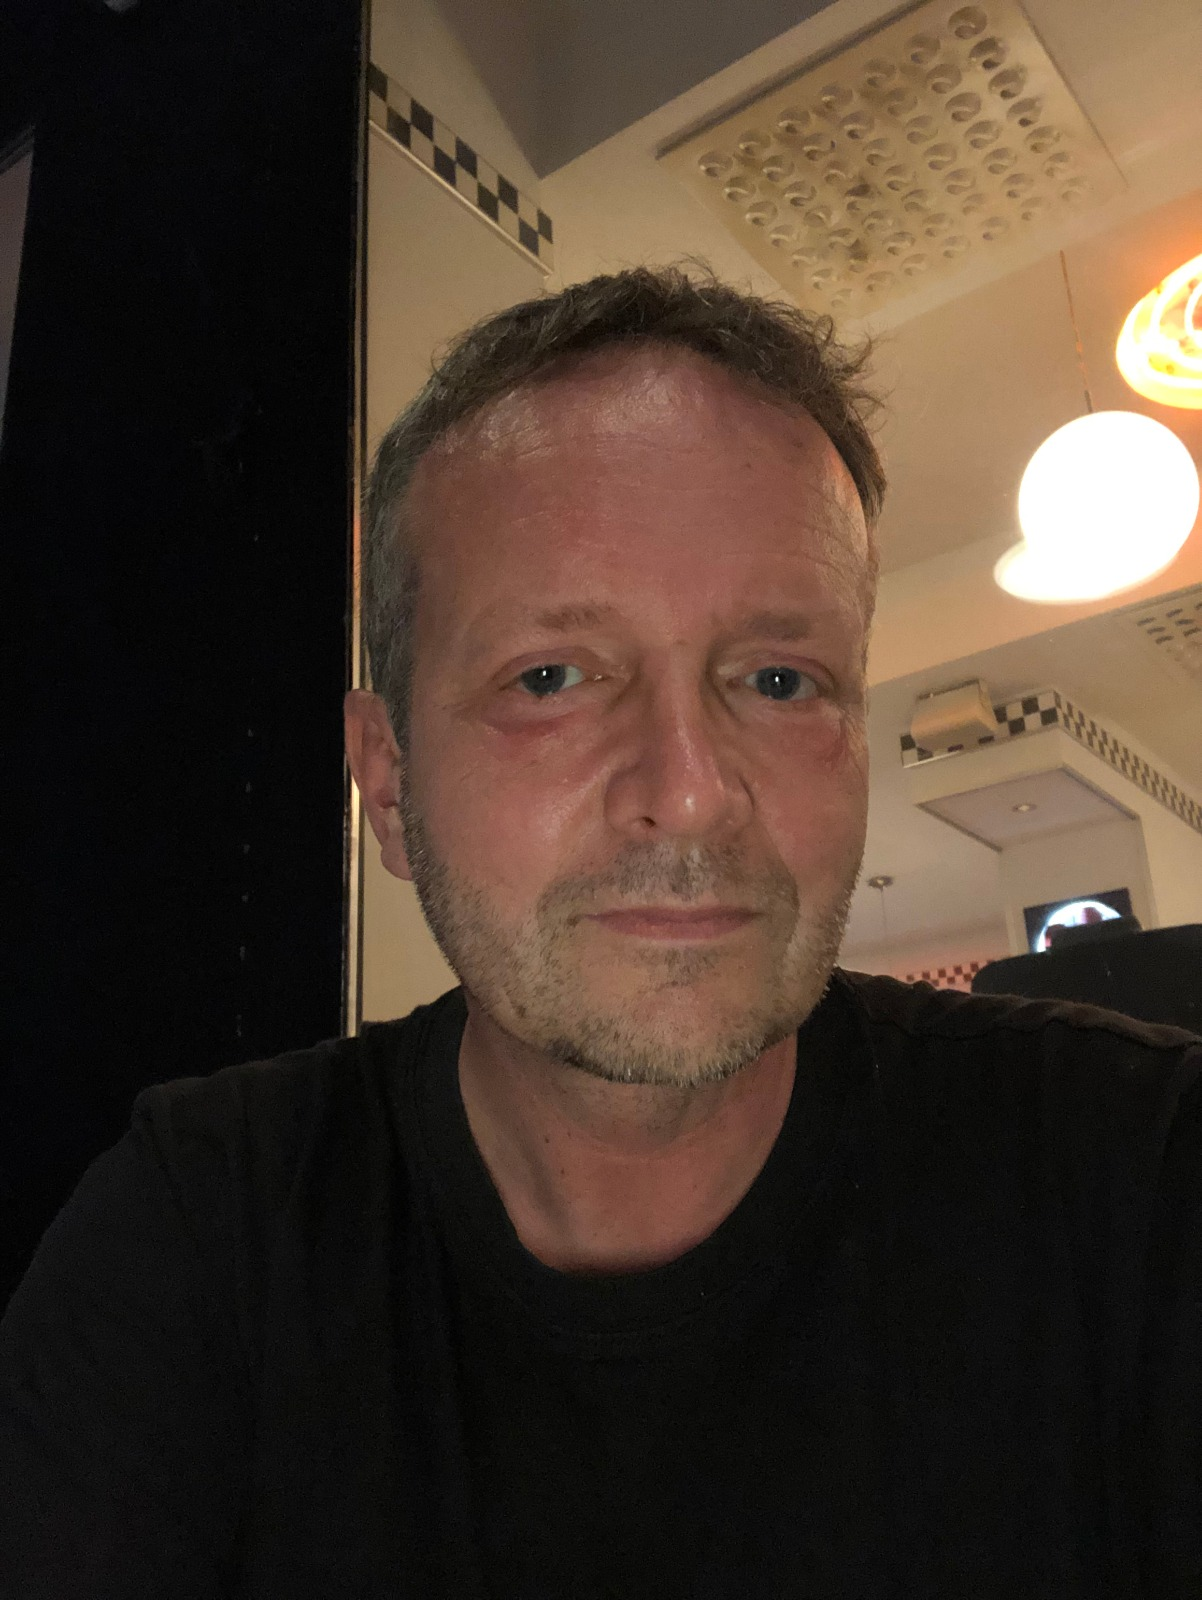
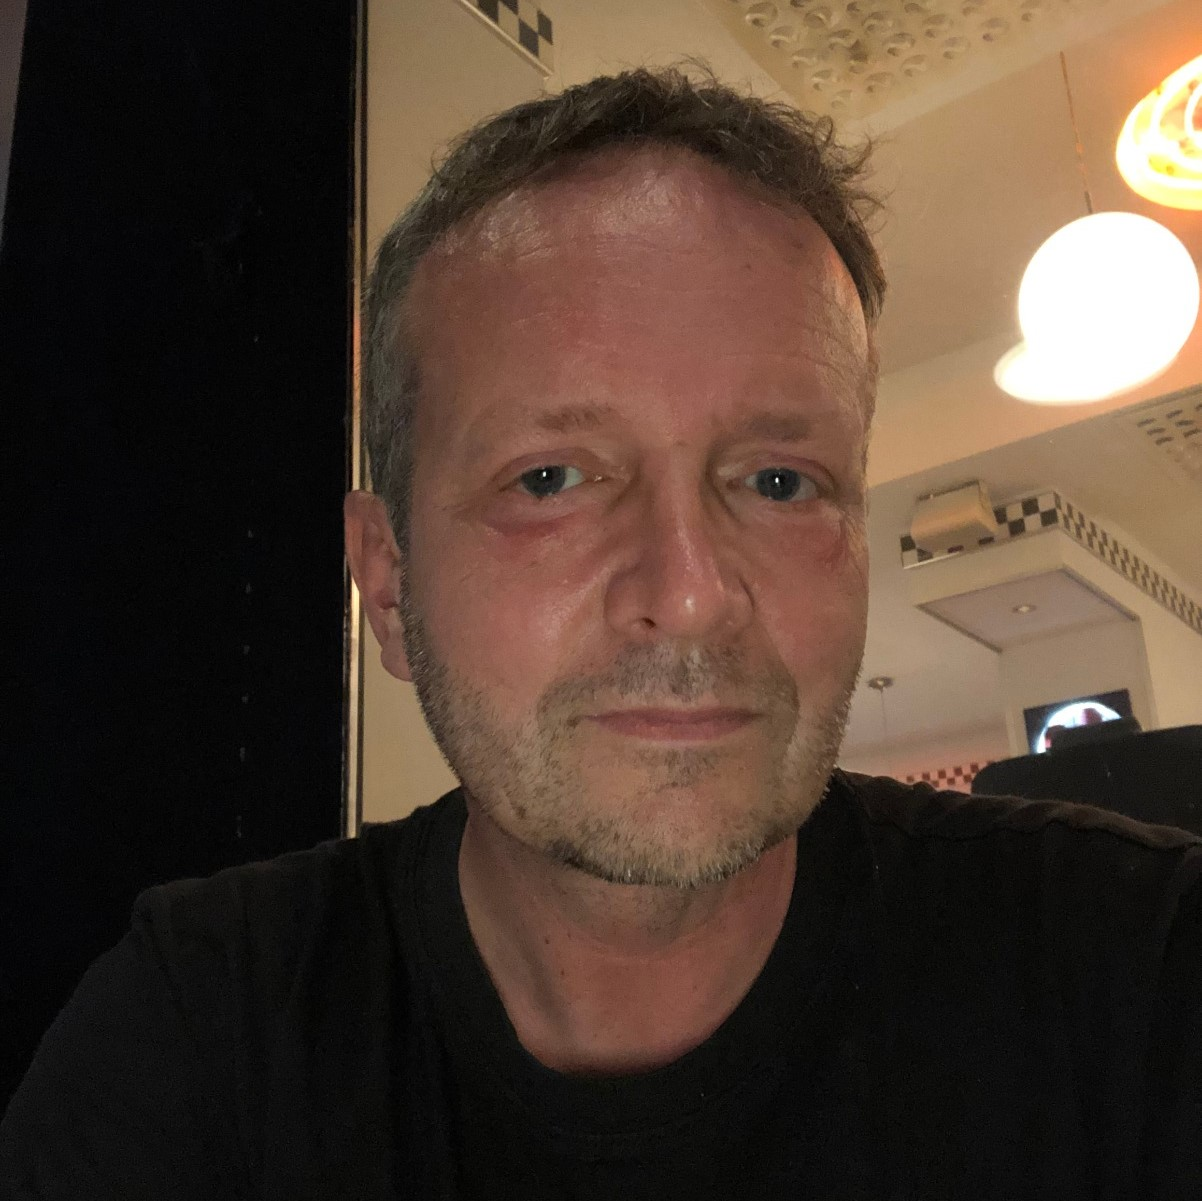
team pics

diff --git a/app/resources/views/public/dashboard.blade.php b/app/resources/views/public/dashboard.blade.php
@@ -387,7 +387,7 @@
                 <!-- Single Team Widget -->
                 <div class="col-md-6 col-lg-3 col-xl-3 wow animated fadeInUp" data-wow-delay=".6s">
                     <div class="single-team-widget">
-                        <img src="img/peterprofileimagecropped.jpeg" class="img-fluid" alt="">
+                        <img src="img/peterprofileimage.jpeg" class="img-fluid" alt="">
                         <div class="team-member-info">
                             {{--                            <div class="know-more">--}}
                             {{--                                <a class="btn btn-round btn-fab btn-xs" href="javascript:void(0)"><i--}}
@@ -474,7 +474,7 @@
                 </div>
                 <div class="col-md-6 col-lg-3 col-xl-3 wow animated fadeInUp" data-wow-delay=".5s">
                     <div class="single-team-widget">
-                        <img src="img/stacyprofileimagecropped.jpg" class="img-fluid" alt="">
+                        <img src="img/stacyprofileimage.jpg" class="img-fluid" alt="">
                         <div class="team-member-info">
                             {{--                            <div class="know-more">--}}
                             {{--                                <a class="btn btn-round btn-fab btn-xs" href="javascript:void(0)"><i--}}
@@ -516,7 +516,7 @@
                 </div>
                 <div class="col-md-6 col-lg-3 col-xl-3 wow animated fadeInUp" data-wow-delay=".5s">
                     <div class="single-team-widget">
-                        <img src="img/markusprofileimage.jpg" class="img-fluid" alt="">
+                        <img src="img/mosthandsomeguy.jpg" class="img-fluid" alt="">
                         <div class="team-member-info">
                             {{--                            <div class="know-more">--}}
                             {{--                                <a class="btn btn-round btn-fab btn-xs" href="javascript:void(0)"><i--}}
@@ -524,7 +524,7 @@
                             {{--                                    <div class="ripple-container"></div>--}}
                             {{--                                </a>--}}
                             {{--                            </div>--}}
-                            <h2 class="subtitle">Markus Shäfer</h2>
+                            <h2 class="subtitle">Markus Shcäfer</h2>
                             <p>German Marketing Specialist</p>
                             <div class="social-profiles">
                                 {{--                                <a href="#"><i class="mdi mdi-twitter"></i></a>--}}
